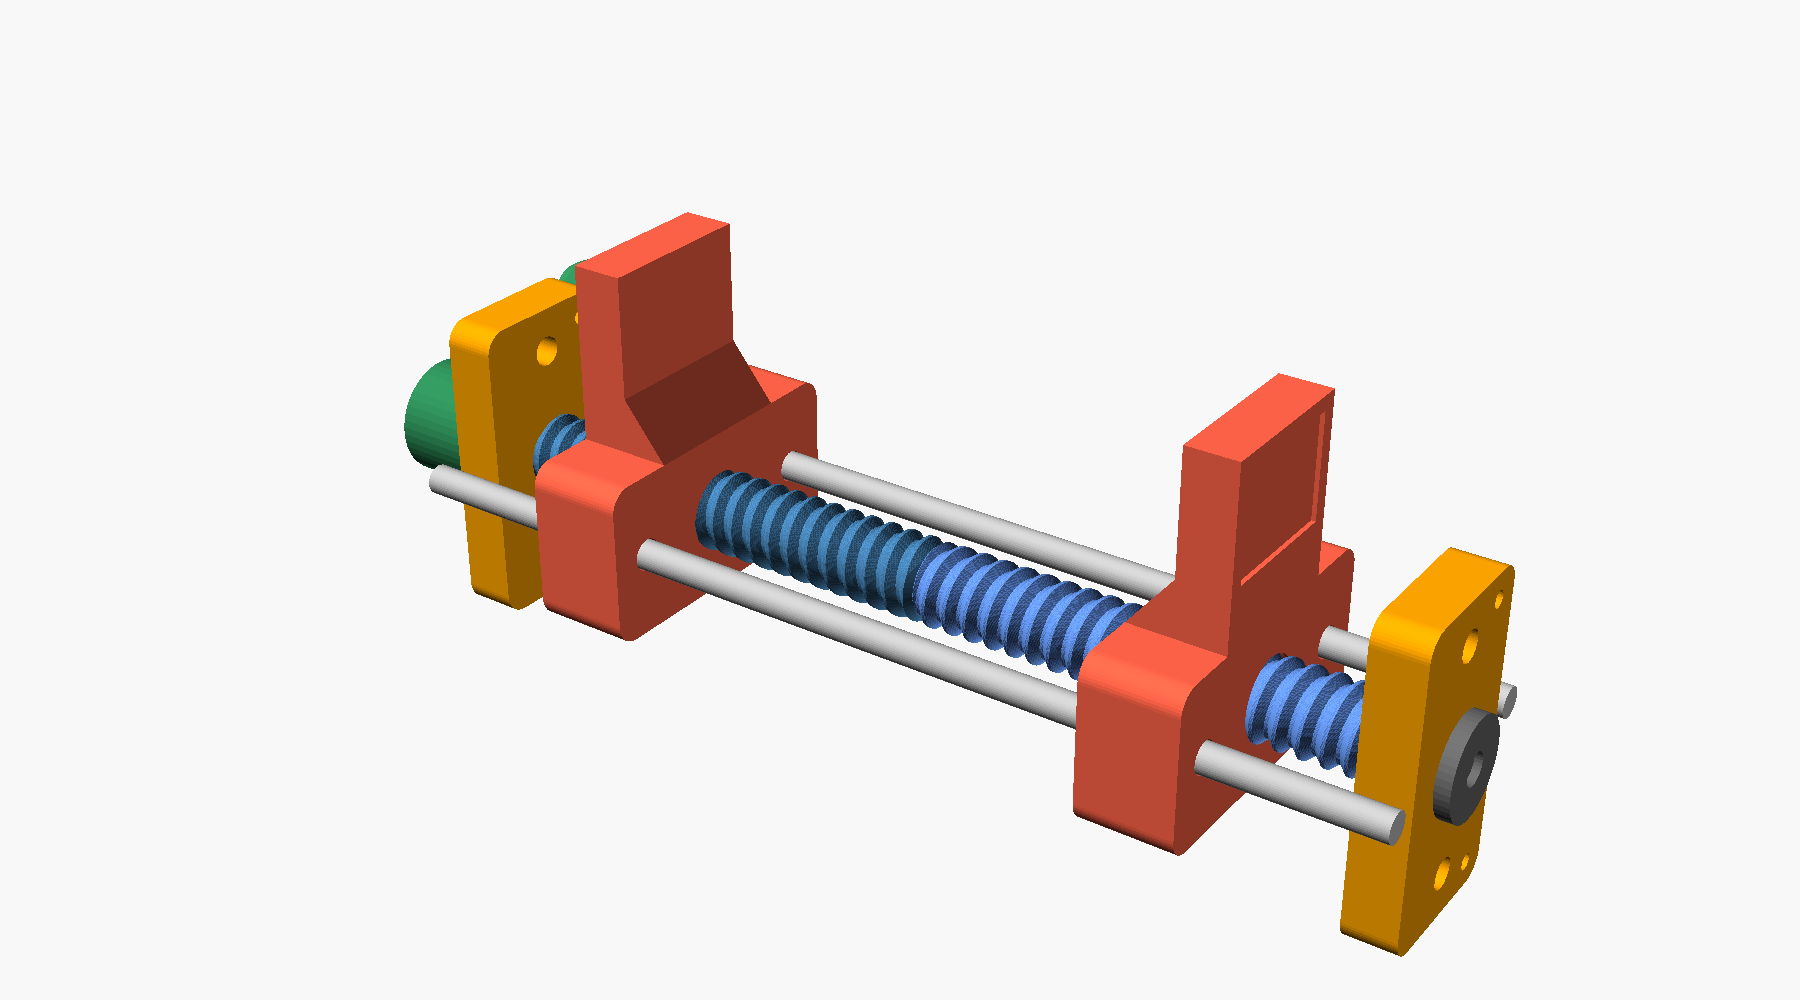
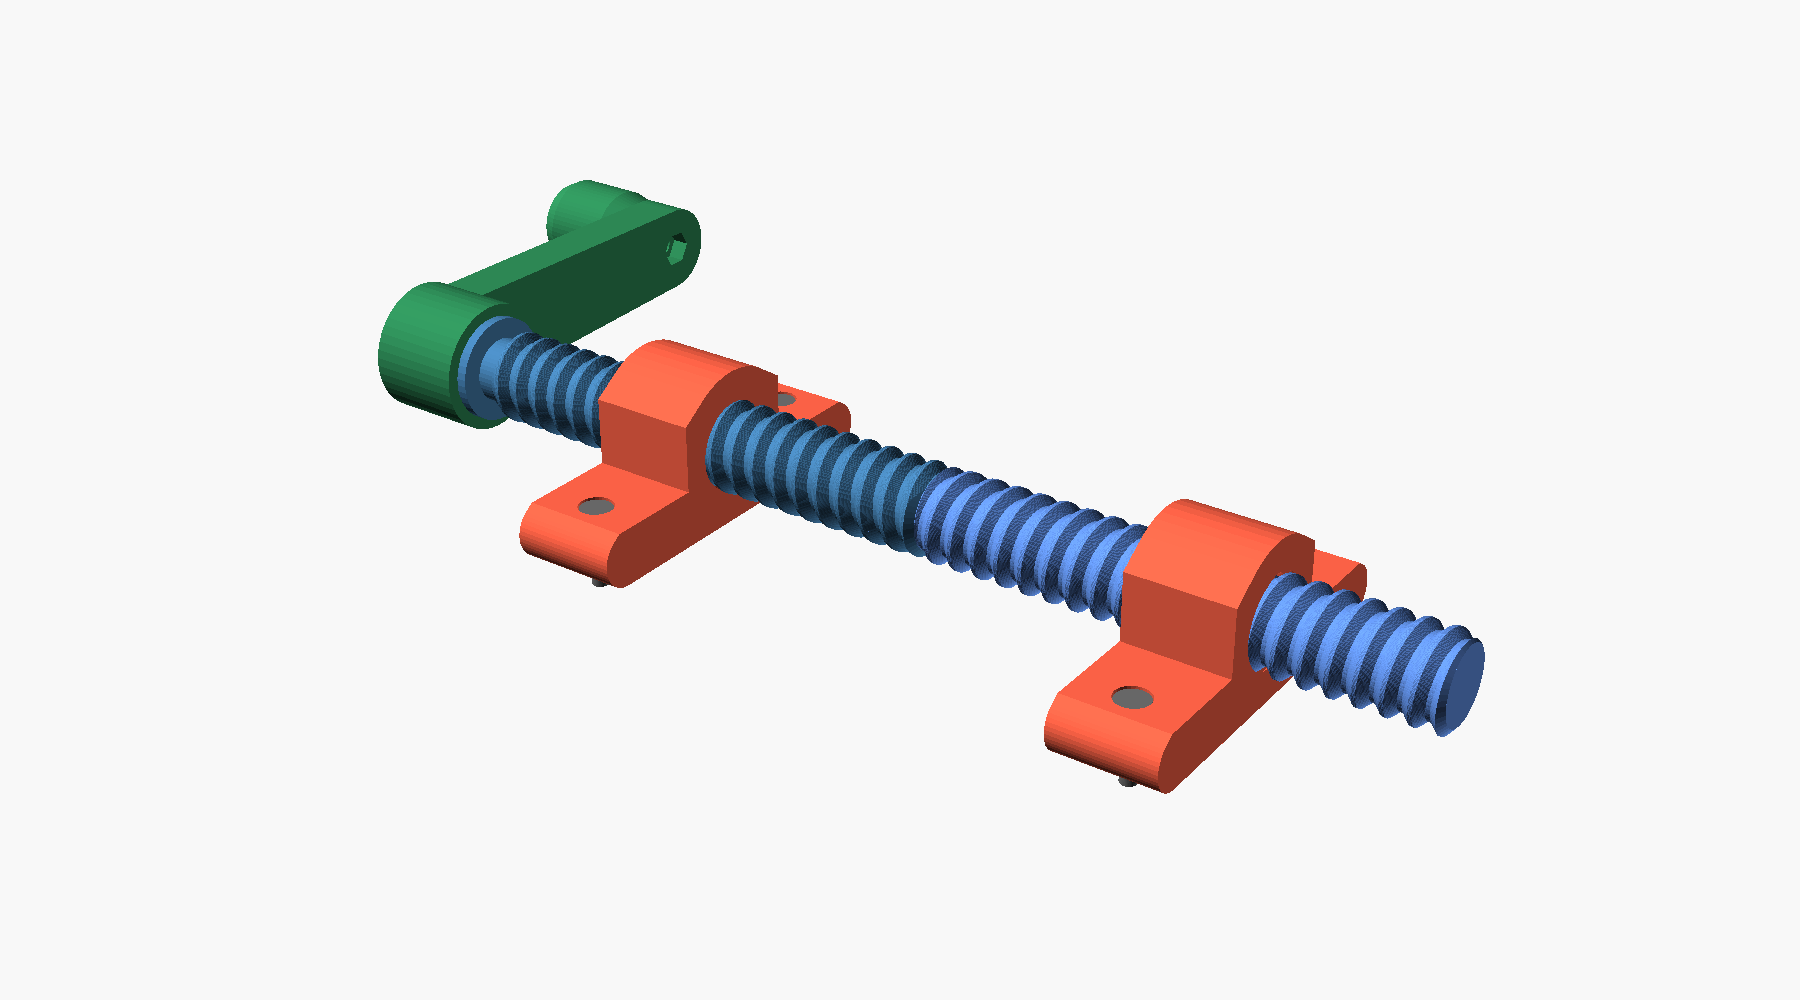
Spreader: drop end blocks and guide rods, add side screw ears to carriages
Claude-Session: https://claude.ai/code/session_01PSLzuMDMbJ1D8zieyQqa7G

Changed region(s): [[0.1867, 0.186, 0.84, 0.961]]

diff --git a/screw_spreader/README.md b/screw_spreader/README.md
@@ -6,14 +6,16 @@ from each other. Everything fits a Prusa Core One (250 x 220 x 270 mm).
 
 ![assembly](assembly_drive_side.png)
 ![assembly](assembly.png)
+![carriage](carriage.png)
 
 ## Specs
 | | |
 |---|---|
-| Rod length | 297 mm (11.7") overall, 250 mm threaded |
+| Rod length | 272 mm (10.7") overall, 250 mm threaded |
 | Thread | 22 mm major dia, 6 mm pitch, 90° included angle (prints without support) |
 | Travel | 6 mm per turn per carriage (12 mm/turn closing or opening) |
-| Jaw span (outer faces) | about 52 mm to 251 mm |
+| Carriage centers | 26 mm (touching) to about 225 mm apart |
+| Carriage mounting | 2 counterbored M4 / #8 holes per carriage, 68 mm apart, screws perpendicular to the rod through a flat mounting face |
 | Drive | 3/8" square: fits the printed crank or any 3/8" ratchet or T-handle |
 
 ## Parts
@@ -23,25 +25,22 @@ Export with `openscad -o part.stl -D 'PART="rod_rh"' screw_spreader.scad`.
 |---|---|---|
 | `rod_rh` (drive half, RH thread, hex socket) | 1 | standing up, square drive on top, brim |
 | `rod_lh` (far half, LH thread, hex peg) | 1 | standing up, peg on top, brim |
-| `carriage_rh` | 1 | flat as exported (thread axis vertical) |
-| `carriage_lh` | 1 | flat as exported |
-| `end_block` | 2 | flat |
-| `end_collar` | 1 | flat |
+| `carriage_rh` | 1 | as exported (thread axis vertical), no supports |
+| `carriage_lh` | 1 | as exported |
 | `crank` | 1 | flat |
 | `knob` | 1 | upright |
 
-Bought parts: 2x 8 mm rod, 279 mm long (guide rods), 1x M4x12 screw and washer,
-1x M5x40 bolt and nylock nut, epoxy (optional) for the center hex joint.
+Bought parts: 4x M4 or #8 screws (head 8 mm dia or less), 1x M5x40 bolt and
+nylock nut, epoxy for the center hex joint.
 
 ## Assembly
-1. Glue the hex peg of `rod_lh` into the socket of `rod_rh` (optional; the end
-   blocks also hold the halves together lengthwise).
+1. Epoxy the hex peg of `rod_lh` into the socket of `rod_rh`. The glue is what
+   holds the two halves together lengthwise.
 2. Thread `carriage_rh` onto the RH half and `carriage_lh` onto the LH half,
-   with the jaws facing outward and the carriages the same distance from center.
-3. Slide both end blocks onto the journals and push the guide rods through the
-   end blocks and carriages.
-4. Screw the end collar onto the far end (M4, self-tapping into the 3.4 mm pilot).
-5. Put the crank on the square drive.
+   the same distance from center, mounting faces on the same side.
+3. Screw the carriages to the parts you want to spread or clamp. Those parts
+   keep the carriages from spinning with the rod.
+4. Put the crank on the square drive.
 
 Tune `CLR` (nut clearance, default 0.35 mm radial) if the carriages are too
 tight or too loose on your printer.
